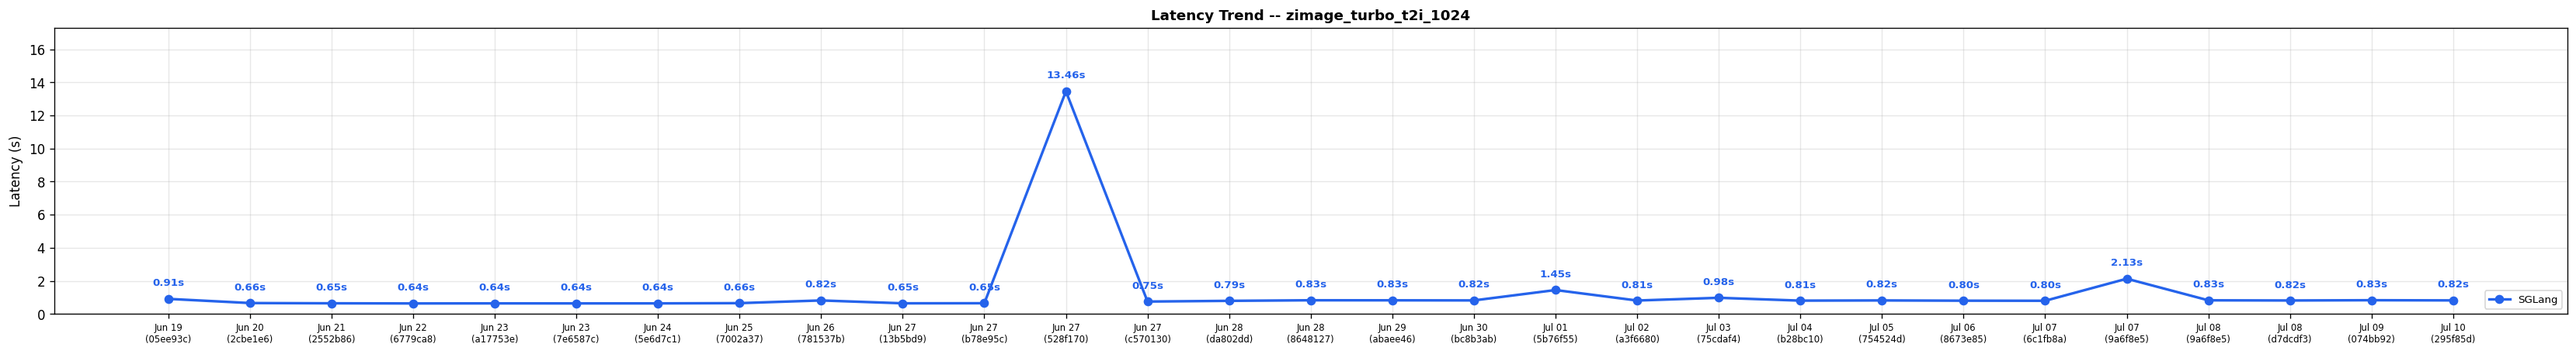
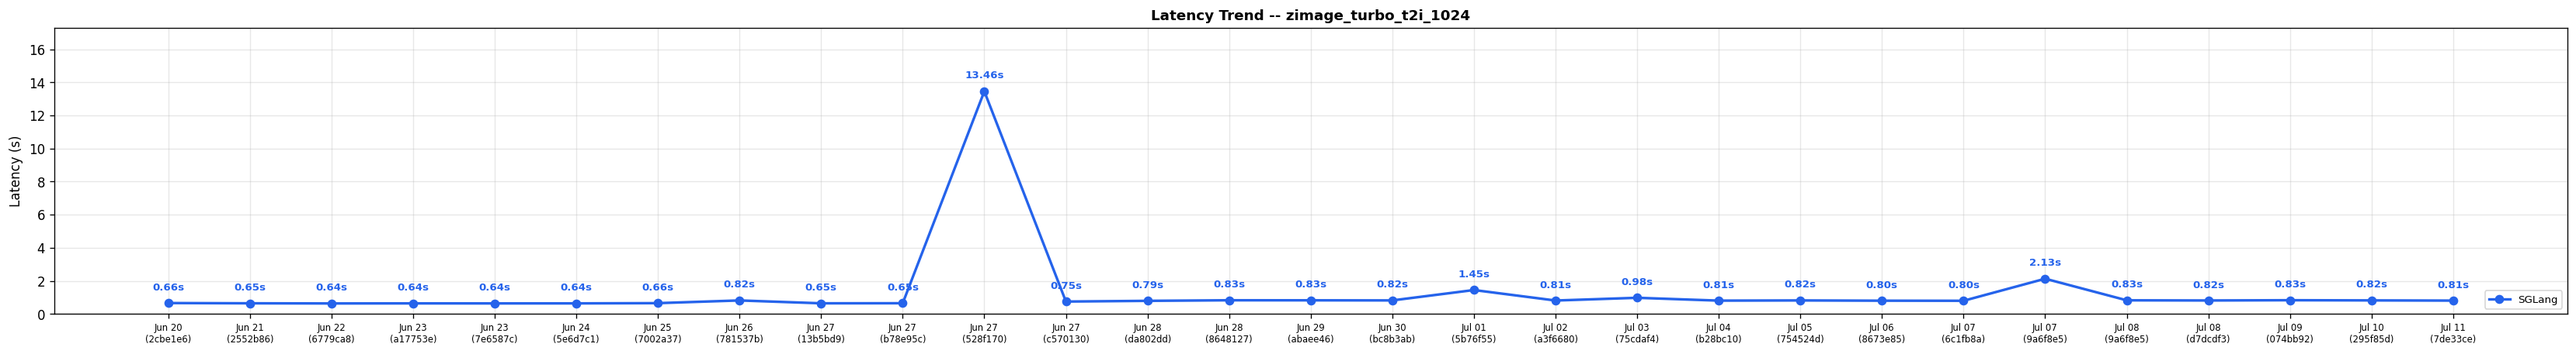
Diffusion comparison results for run 29133176708 (#712)

diff --git a/diffusion-comparisons/dashboard.md b/diffusion-comparisons/dashboard.md
@@ -1,28 +1,22 @@
 # SGLang-Diffusion Nightly Performance Dashboard
 
-*Generated: Jul 10 | Commit: `295f85d`*
-
-> [!WARNING]
-> **Performance Regression Detected**
->
-> - **cosmos3_super_t2v_2gpu** (sglang): 116.33s -> 128.45s (+10.4%)
-
+*Generated: Jul 11 | Commit: `7de33ce`*
 
 ## SGLang-Diffusion Performance
 
 | Model | Risk | sglang (s) |
 |-------|------|---------|
-| FLUX.1-dev | ✅ | **4.88** |
-| FLUX.2-dev | ✅ | **14.46** |
-| Qwen-Image-2512 | ✅ | **8.98** |
-| Qwen-Image-Edit-2511 | ✅ | **15.44** |
-| Z-Image-Turbo | ✅ | **0.82** |
-| Wan2.2-T2V-A14B-Diffusers | ✅ | **210.72** |
+| FLUX.1-dev | ✅ | **4.85** |
+| FLUX.2-dev | ✅ | **14.49** |
+| Qwen-Image-2512 | ✅ | **8.81** |
+| Qwen-Image-Edit-2511 | ✅ | **15.38** |
+| Z-Image-Turbo | ✅ | **0.81** |
+| Wan2.2-T2V-A14B-Diffusers | ✅ | **210.63** |
 | Wan2.2-TI2V-5B-Diffusers | ✅ | **65.23** |
-| LTX-2.3 | ✅ | **13.05** |
-| ideogram-4-fp8 | ✅ | **5.38** |
-| Cosmos3-Super | ⚠ | **128.45** |
-| Wan2.2-I2V-A14B-Diffusers | ✅ | **205.69** |
+| LTX-2.3 | ✅ | **13.06** |
+| ideogram-4-fp8 | ✅ | **5.34** |
+| Cosmos3-Super | ✅ | **118.39** |
+| Wan2.2-I2V-A14B-Diffusers | ✅ | **204.69** |
 
 ### Latency Trend: flux1_dev_t2i_1024
 
@@ -83,6 +77,7 @@
 
 | Date | Commit | flux1_dev_t2i_1024 (s) | flux2_dev_t2i_1024 (s) | qwen_image_2512_t2i_1024 (s) | qwen_image_edit_2511 (s) | zimage_turbo_t2i_1024 (s) | wan22_t2v_a14b_720p (s) | wan22_ti2v_5b_720p (s) | ltx2.3_twostage_ti2v_2gpus (s) | ideogram4_fp8_t2i_2gpu (s) | cosmos3_super_t2v_2gpu (s) | wan22_i2v_a14b_720p (s) | Trend |
 |------|--------|---------|---------|---------|---------|---------|---------|---------|---------|---------|---------|---------|-------|
+| Jul 11 | `7de33ce` | 4.85 | 14.49 | 8.81 | 15.38 | 0.81 | 210.63 | 65.23 | 13.06 | 5.34 | 118.39 | 204.69 | :left_right_arrow:  :left_right_arrow:  :left_right_arrow:  :left_right_arrow:  :left_right_arrow:  :left_right_arrow:  :left_right_arrow:  :left_right_arrow:  :left_right_arrow:  :arrow_down:  :left_right_arrow: |
 | Jul 10 | `295f85d` | 4.88 | 14.46 | 8.98 | 15.44 | 0.82 | 210.72 | 65.23 | 13.05 | 5.38 | 128.45 | 205.69 | :left_right_arrow:  :left_right_arrow:  :arrow_down:  :left_right_arrow:  :left_right_arrow:  :left_right_arrow:  :left_right_arrow:  :arrow_down:  :left_right_arrow:  :arrow_up:  :left_right_arrow: |
 | Jul 09 | `074bb92` | 4.87 | 14.45 | 10.74 | 15.41 | 0.83 | 210.74 | 65.24 | 17.07 | 5.34 | 116.33 | 204.68 | :left_right_arrow:  :left_right_arrow:  :arrow_down:  :left_right_arrow:  :left_right_arrow:  :left_right_arrow:  :left_right_arrow:  :arrow_up:  :left_right_arrow:  :left_right_arrow:  :left_right_arrow: |
 | Jul 08 | `d7dcdf3` | 4.85 | 14.45 | 11.00 | 15.45 | 0.82 | 210.76 | 65.22 | 16.06 | 5.34 | 116.39 | 204.66 | :left_right_arrow:  :left_right_arrow:  :arrow_down:  :left_right_arrow:  :left_right_arrow:  :left_right_arrow:  :left_right_arrow:  :left_right_arrow:  :left_right_arrow:  :left_right_arrow:  :left_right_arrow: |
@@ -111,15 +106,7 @@
 | Jun 23 | `a17753e` | 4.68 | 14.34 | 12.80 | 23.72 | 0.64 | 211.07 | 65.22 | 14.05 | N/A | N/A | 205.68 | :left_right_arrow:  :left_right_arrow:  :left_right_arrow:  :left_right_arrow:  :left_right_arrow:  :left_right_arrow:  :left_right_arrow:  :left_right_arrow:    :left_right_arrow: |
 | Jun 22 | `6779ca8` | 4.65 | 14.37 | 12.83 | 23.76 | 0.64 | 209.96 | 65.23 | 14.05 | N/A | N/A | 205.58 | :left_right_arrow:  :left_right_arrow:  :left_right_arrow:  :left_right_arrow:  :left_right_arrow:  :left_right_arrow:  :left_right_arrow:  :arrow_down:    :left_right_arrow: |
 | Jun 21 | `2552b86` | 4.67 | 14.33 | 12.74 | 23.63 | 0.65 | 209.38 | 64.15 | 19.07 | N/A | N/A | 204.55 | :left_right_arrow:  :left_right_arrow:  :left_right_arrow:  :left_right_arrow:  :arrow_down:  :left_right_arrow:  :left_right_arrow:  :arrow_up:    :left_right_arrow: |
-| Jun 20 | `2cbe1e6` | 4.65 | 14.33 | 12.78 | 23.63 | 0.66 | 209.30 | 64.20 | 15.05 | N/A | N/A | 205.54 | :arrow_down:  :arrow_down:  :left_right_arrow:  :left_right_arrow:  :arrow_down:  :left_right_arrow:  :left_right_arrow:  :left_right_arrow:    :left_right_arrow: |
-| Jun 19 | `05ee93c` | 6.99 | 24.86 | 12.81 | 23.75 | 0.91 | 209.14 | 65.23 | 15.06 | N/A | N/A | 204.65 | -- |
-
-> [!CAUTION]
-> **Action Required — Performance Alert**
->
-> The following cases need attention:
-> - cosmos3_super_t2v_2gpu: SGLang regression +10.4% vs 3-run avg (128.45s vs 116.36s)
-
+| Jun 20 | `2cbe1e6` | 4.65 | 14.33 | 12.78 | 23.63 | 0.66 | 209.30 | 64.20 | 15.05 | N/A | N/A | 205.54 | -- |
 
 ---
 *Generated by `generate_diffusion_dashboard.py` in SGLang nightly CI.*
